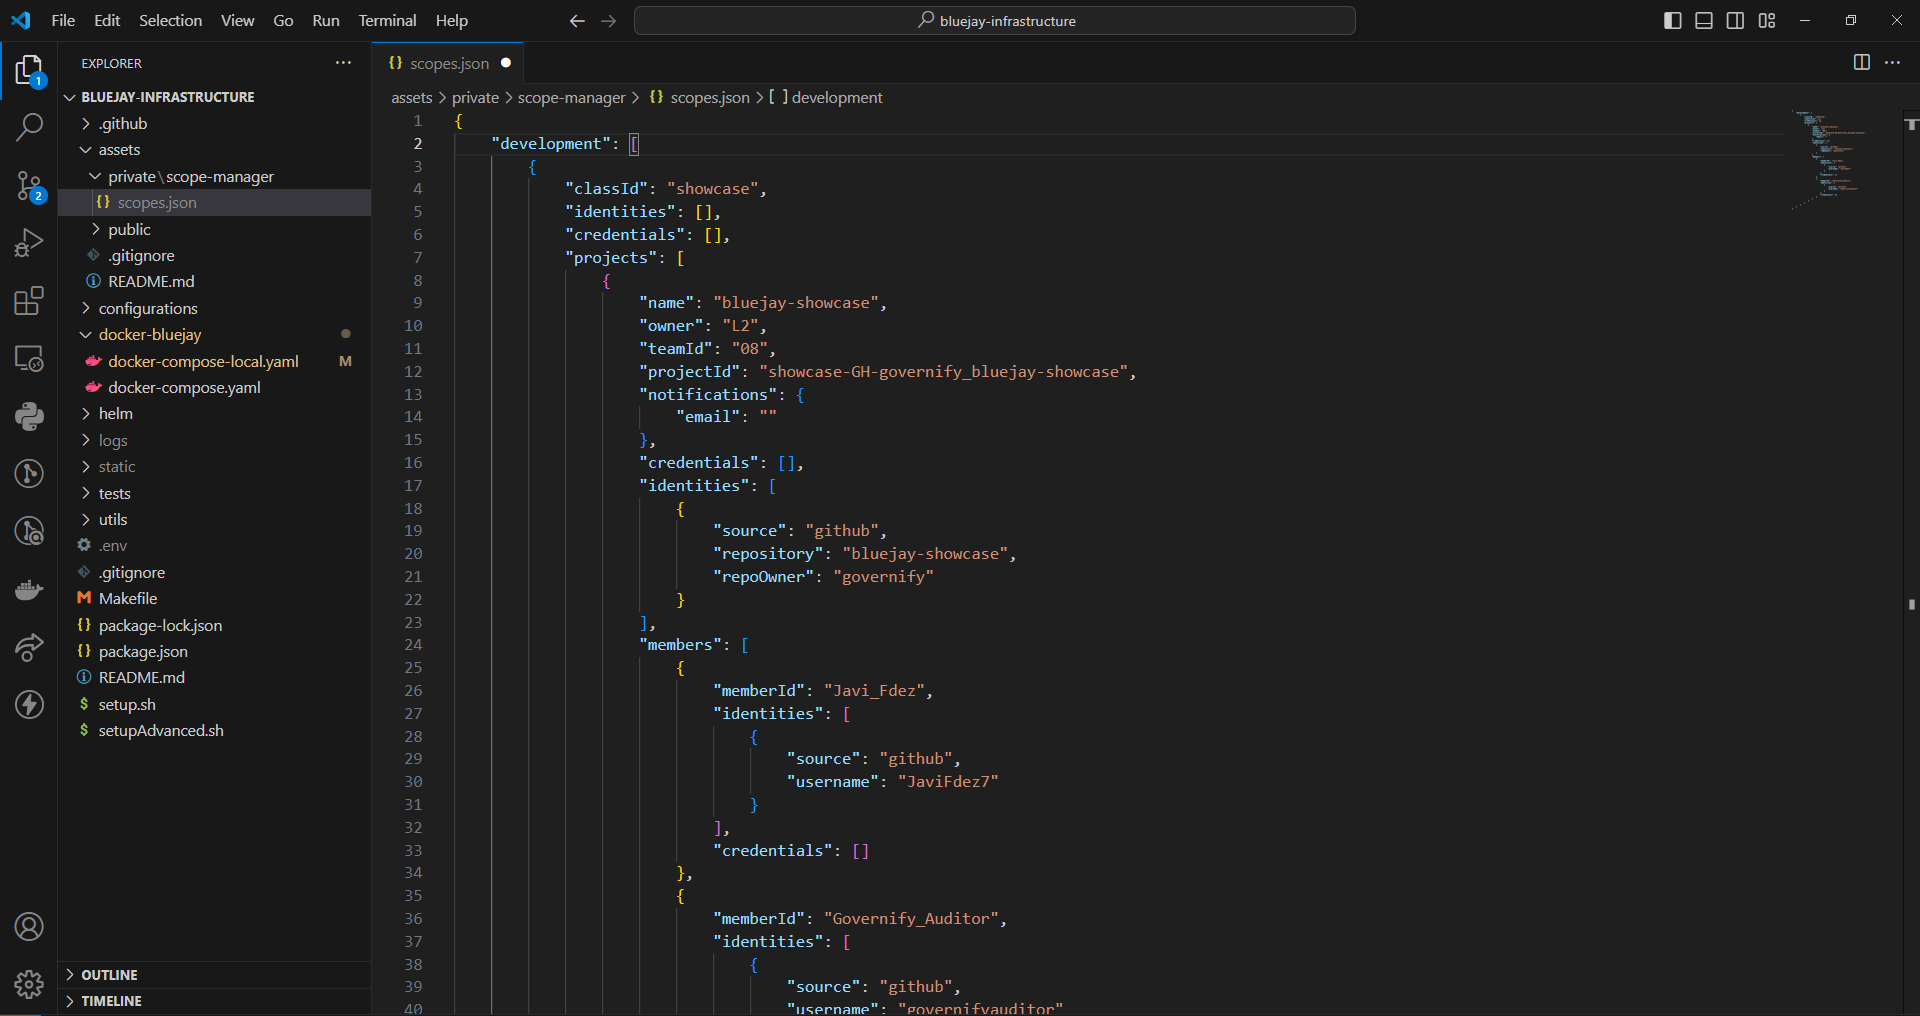
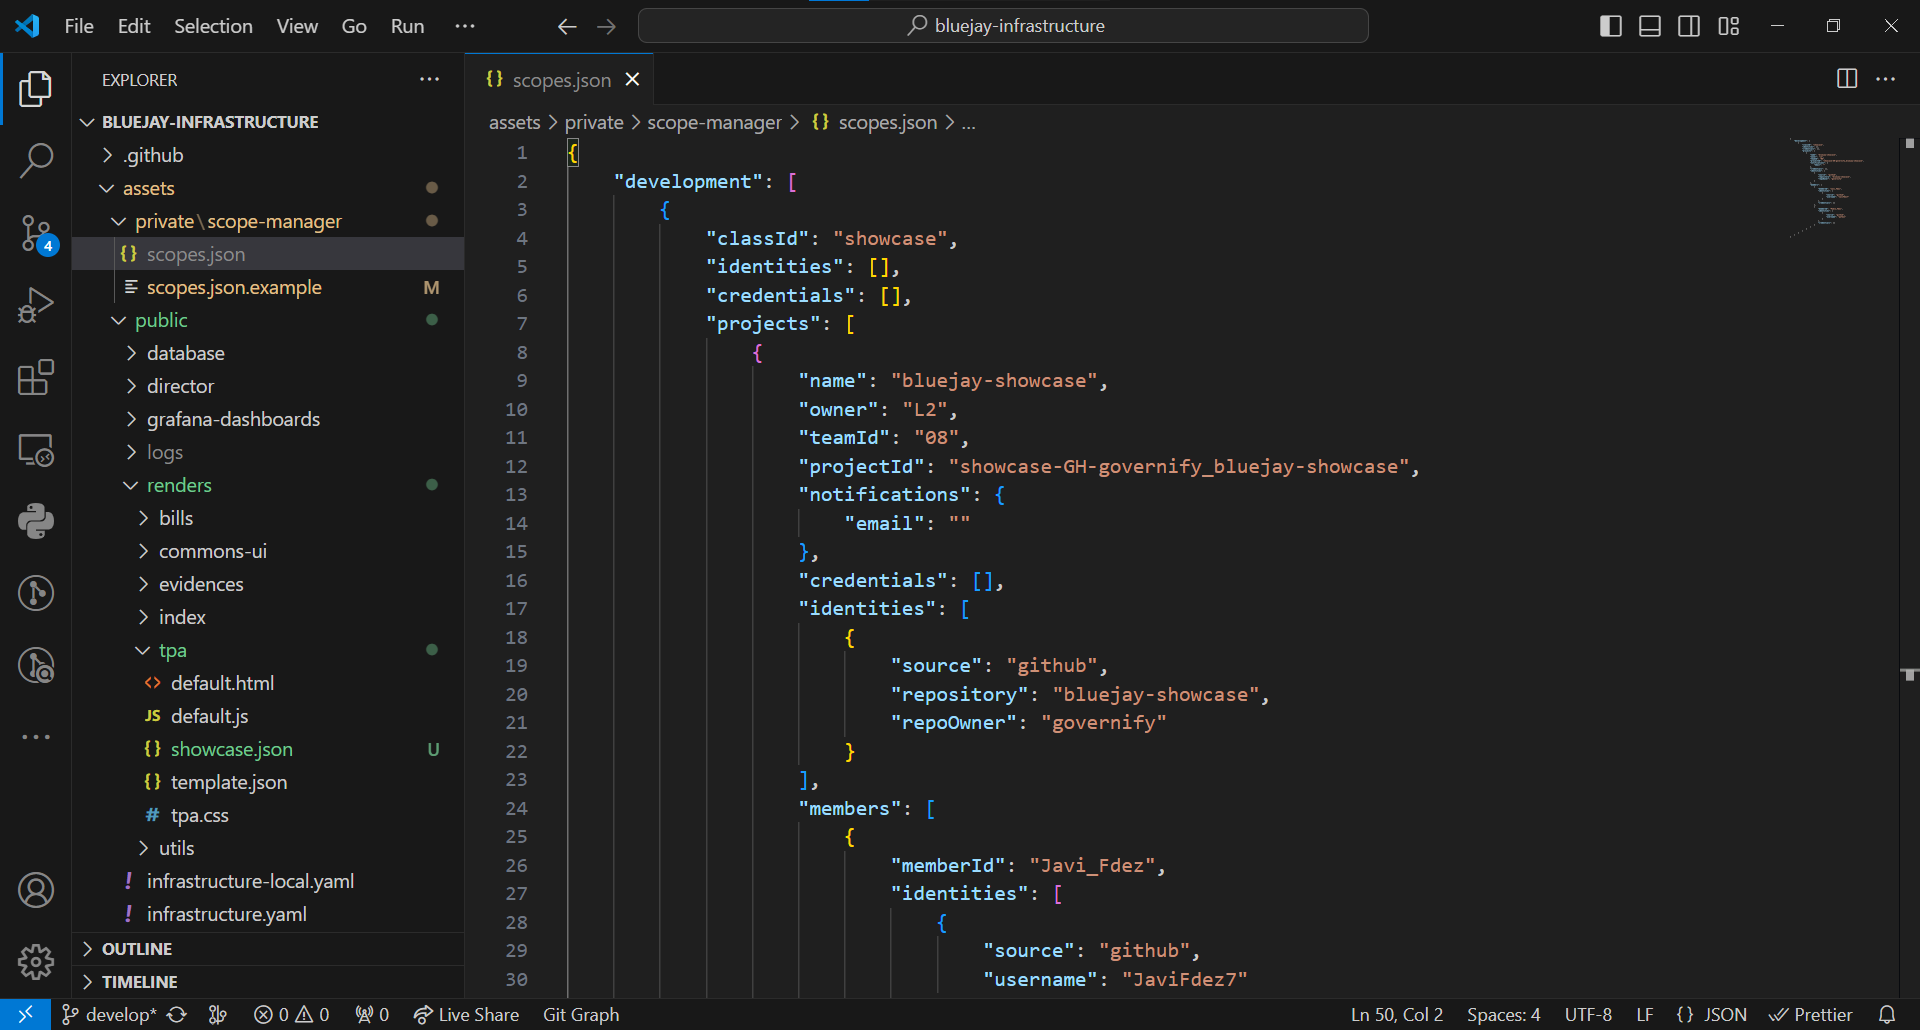
feat: docker compose quickstart with tpa creation

diff --git a/docs/deployment/docker-compose-local-quickstart.md b/docs/deployment/docker-compose-local-quickstart.md
@@ -1,15 +1,15 @@
 ---
-title: Docker Compose Local Quickstart
-description: Docker Compose deployed locally
+title: Docker Compose (development) Quickstart
+description: Docker Compose (development) deployed locally
 sidebar_position: 2 # Sets this doc to the first position in the sidebar
 hide_table_of_contents: false
 ---
 
-# Docker Compose Deployment - Quickstart version
+# Docker Compose (development) Deployment - Quickstart version
 
 ---
 
-This guide deploys bluejay with the docker ecosystem in a local/development environment. For a more advanced deployment please refer to [Docker Compose](./docker-compose.md).
+This guide deploys bluejay with the docker ecosystem in a local/development environment. During this quickstart the system is deployed with docker, a class is created, a TPA is created for that class and a calculation is carried out to display the first points on the graphs.
 
 ## Prerequisites
 - Windows OS, Linux or macOS with the following installed packages:
@@ -72,11 +72,11 @@ Generating a Github token is an essential step. With this key Blujay is able to 
 - Navigate to your github account and then go to  `Settings>Developer Settings` (at the end of the menu).
 - Go to `Personal access tokens > Tokens (classic)`
 - Click on `Generate new token > Generate new token (classic)` 
-- The scopes you select are up to you, but you need at least repository access.
+- The scopes you select are up to you, but you need at least **repository**, **project** and **user** access.
 - Click on `Generate token` and make sure to copy the given key and paste it into `KEY_GITHUB` in the `.env` file.
 
 ## 3. Create scopes.json
-Within the `assets/private/scope-manager` directory, you will discover a file named `scopes.json.example`. This file serves as a blueprint, guiding us in the creation of our custom `scopes.json`, which will be located within the same directory as the example. You can copy the following contents into your scopes file as a test.
+Within the `assets/private/scope-manager` directory, you will discover a file named `scopes.json.example`. This file serves as a blueprint, guiding us in the creation of our custom `scopes.json`, which will be located within the same directory as the example. You can copy the following contents into your scopes file as a test, although the `scopes.json.example` file already includes this content.
 ```json
 {
     "development": [
@@ -113,11 +113,11 @@ Within the `assets/private/scope-manager` directory, you will discover a file na
                             "credentials": []
                         },
                         {
-                            "memberId": "Governify_Auditor",
+                            "memberId": "Pablo_Fdez",
                             "identities": [
                                 {
                                     "source": "github",
-                                    "username": "governifyauditor"
+                                    "username": "pafmon"
                                 }
                             ],
                             "credentials": []
@@ -129,8 +129,6 @@ Within the `assets/private/scope-manager` directory, you will discover a file na
     ]
 }
 ```
-If you modify this file to add more projects or make any change, you will have to restart the `render` and `scope-manager` containers.
-
 
 The scope directory should look like this:
 ![scopes.json](../../static/img/deployment/docker-quickstart/scopes.png)
@@ -150,6 +148,9 @@ Navigate to localhost:5100 to access the main page of Bluejay. A prompt like the
 
 Governify ecosystem with bluejay services should have been deployed in your machine.
 
+### 4. Useful commands and information
+If you modify the scopes.json to add more projects or make any change after deploying the ecosystem, you will have to restart the `scope-manager` container.
+
 To stop the containers use:
 ```bash
 docker-compose -f docker-bluejay/docker-compose-local.yaml --env-file .env stop
@@ -168,5 +169,34 @@ docker-compose -f docker-bluejay/docker-compose-local.yaml --env-file .env down 
 docker-compose -f docker-bluejay/docker-compose-local.yaml --env-file .env up -d # deploy
 ``` 
 
-## 5. Posting a TPA for the project and generating the first points
-You can find more information about that in [Local TPA Creation Quickstart](../tpa-creation)
+## 5. Create a new TPA for the project
+The TPA you are going to create provides information about the number of issues in progress that the members of the repository have in the project.
+
+In the user interface, click on the project's Create TPA button located under Other Projects
+![Create-TPA](../../static/img/deployment/docker-quickstart/create-tpa.png)
+
+You have now created the TPA for the test project. This is what you will see in the user interface. It is time to compute this TPA to see how the work team is performing.
+
+![Created-TPA](../../static/img/deployment/docker-quickstart/created-tpa.png)
+
+## 6. Compute the TPA
+From the user interface, we click on the TPA button in the project and access the TPA details. In this new menu we click on Calculate Metrics. We enter the time and date you are currently on (take into account the time zone and enter exactly 1 hour (59 minutes and 59 seconds) for this test) and click on compute.
+
+![Calculate-metrics](../../static/img/deployment/docker-quickstart/calculate-metrics.png)
+
+ Now you must wait about 10 seconds or access the reporter logs, which will notify you when the elements have been inserted into the graphs.
+
+Then access the dashboard with the following credentials:
+- User: **governify-admin**
+- Password: **governify-project** 
+
+And see the information that has been generated according to the data from the github repository
+
+![grafana-points](../../static/img/deployment/docker-quickstart/grafana-points.png)
+
+## 6. Next Steps
+For more information on how a TPA works, visit our documentation on [TPA configurations](../customization/agreement-modeling/team-practices-agreements).
+
+If you want to know the complete architecture of the ecosystem, visit the [governify architecture documentation](https://docs.governify.io/architecture/intro).
+
+If you find any errors or want to propose any improvements to the documentation, follow this [contribution guide](https://docs.governify.io/development/contributing/contributing-to-docs)

diff --git a/docs/deployment/docker-compose.md b/docs/deployment/docker-compose.md
@@ -1,11 +1,11 @@
 ---
-title: Docker Compose
-description: Docker Compose
+title: Docker Compose (production)
+description: Docker Compose (production)
 sidebar_position: 1 # Sets this doc to the first position in the sidebar
 hide_table_of_contents: false
 ---
 
-# Docker Compose Deployment
+# Docker Compose (production) Deployment
 
 ---
 
